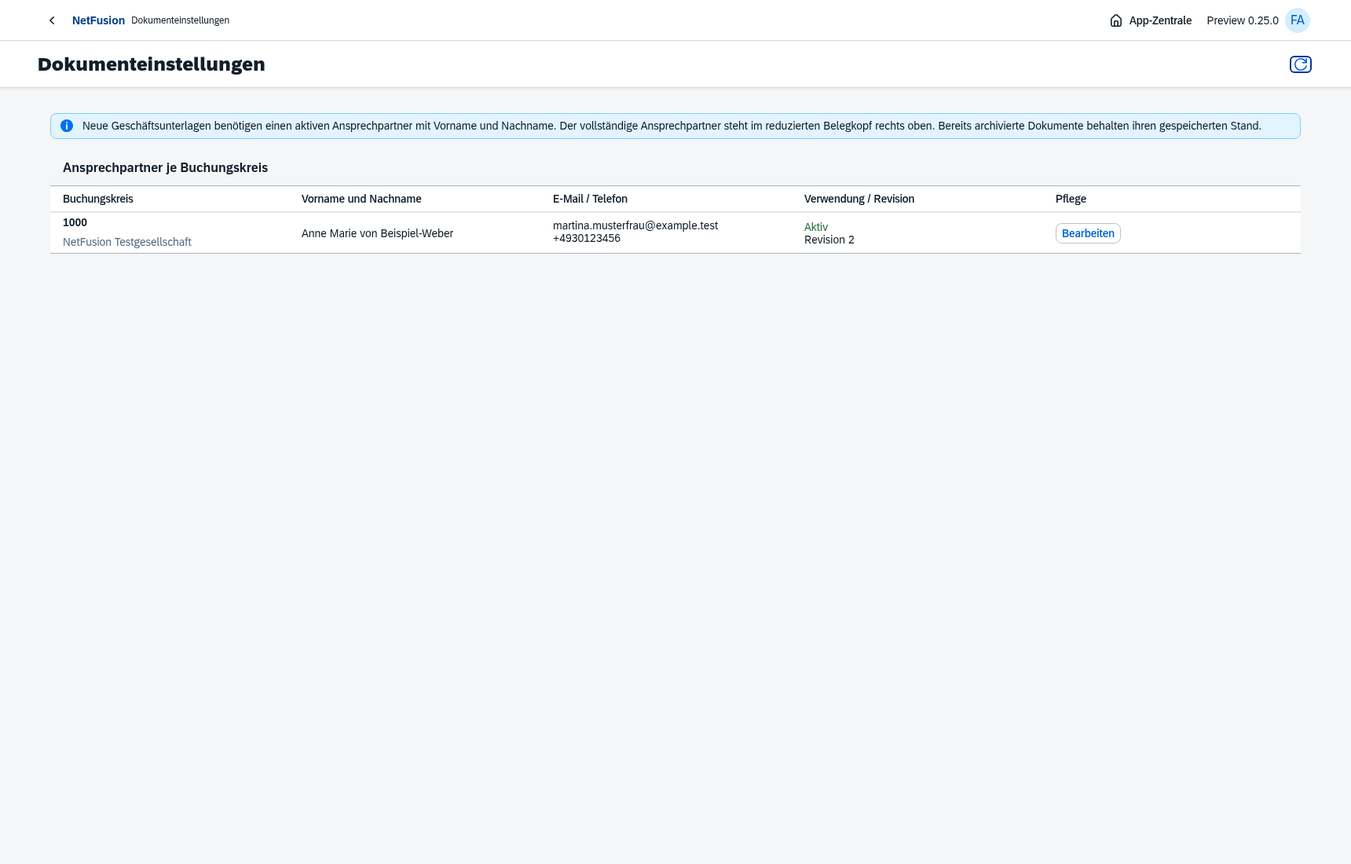
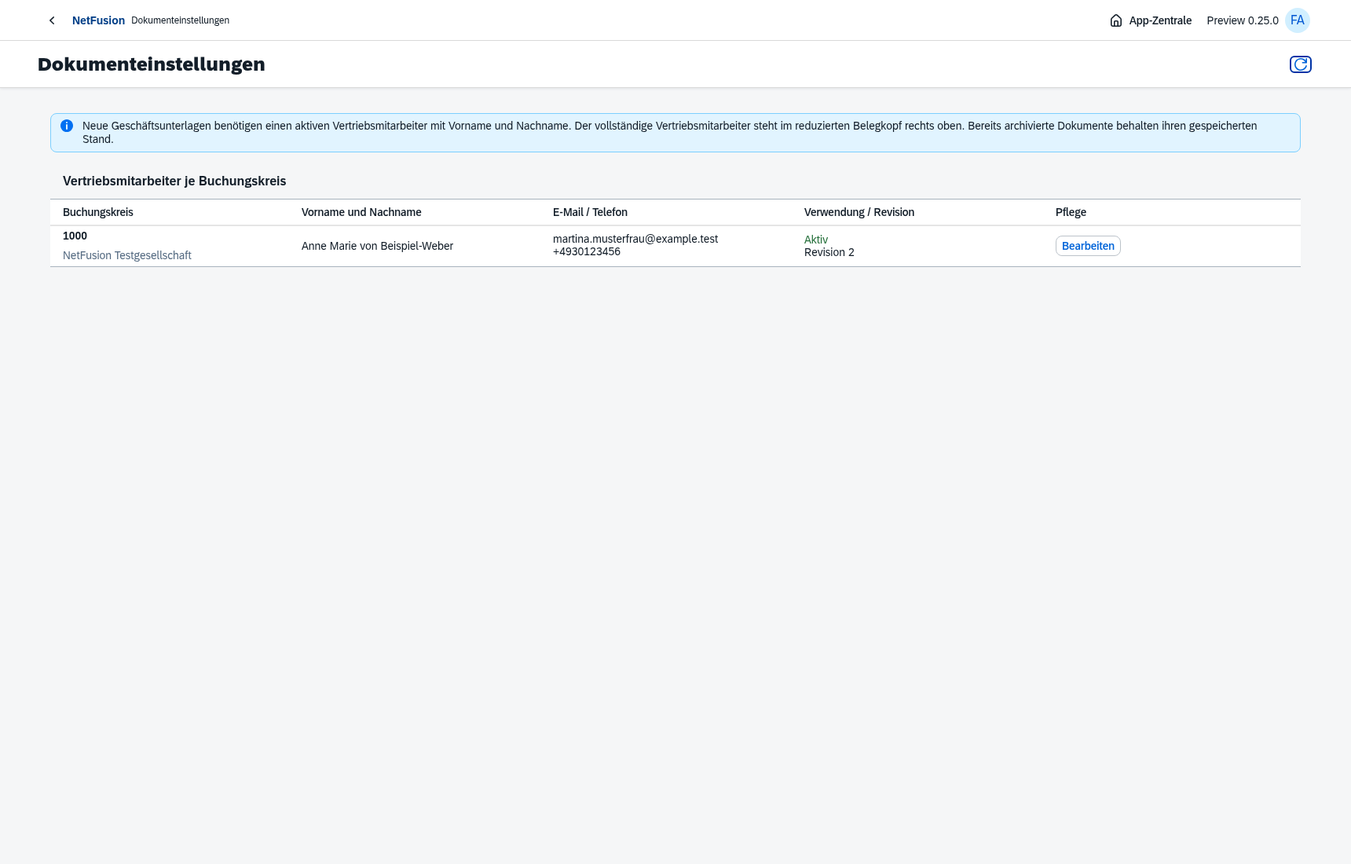
fix: print sales representative in the right document header

diff --git a/backend/billing.ts b/backend/billing.ts
@@ -58,7 +58,7 @@ export class Billing {
  const sourceLines:any[]=[],items:InvoiceData['items']=[];for(const [index,take] of i.lines.entries()){const l=(await db.query('SELECT l.*,l.quantity::text, l.unit_net::text,l.service_from::text AS service_day_from,l.service_to::text AS service_day_to,r.order_id,r.sales_order_id,r.status FROM billing_request_lines l JOIN billing_requests r ON r.tenant_id=l.tenant_id AND r.id=l.request_id WHERE l.tenant_id=$1 AND l.id=$2 FOR SHARE OF r',[u.tenantId,take.requestLineId])).rows[0];if(!l||(l.sales_order_id||l.order_id)!==o.id||l.status!=='RELEASED'||l.service_day_to>i.invoiceDate)throw new ConflictException('Freigegebene Anforderungsposition mit abgeschlossener Leistung vor Rechnungsdatum erforderlich.');const used=(await db.query('SELECT coalesce(sum(quantity),0)::text AS quantity FROM invoice_items WHERE tenant_id=$1 AND request_line_id=$2',[u.tenantId,l.id])).rows[0].quantity;if(new D(used).plus(take.quantity).gt(l.quantity)||(l.source_kind==='FIXED_PRICE'&&!new D(take.quantity).eq(1)))throw new ConflictException('Fakturamenge überschreitet freigegebene Restmenge oder teilt einen Festpreis ohne Fakturierungsplan.');const net=new D(l.unit_net).times(take.quantity).toFixed(2),usedNet=(await db.query('SELECT coalesce(sum(net),0)::text AS net FROM invoice_items WHERE tenant_id=$1 AND request_line_id=$2',[u.tenantId,l.id])).rows[0].net;if(new D(usedNet).plus(net).gt(l.net))throw new ConflictException('Gerundete Teilbeträge überschreiten den freigegebenen Anforderungswert. Größere Teilmengen verwenden; Rundungskorrektur ist noch nicht freigegeben.');if(!new D(net).gt(0))throw new ConflictException('Fakturaposition muss einen positiven gerundeten Wert haben.');const ticketNumbers=o.execution_mode==='DIRECT_SALES'?[]:(await db.query("SELECT DISTINCT td.number FROM service_report_lines sl JOIN service_reports sr ON sr.tenant_id=sl.tenant_id AND sr.id=sl.report_id JOIN documents td ON td.tenant_id=sr.tenant_id AND td.id=sr.ticket_id WHERE sl.tenant_id=$1 AND sr.order_id=$2 AND sr.status='APPROVED' AND (sl.snapshot->>'billable')::boolean AND (($3::uuid IS NOT NULL AND sl.id=$3) OR ($3::uuid IS NULL AND sl.item_id=$4)) ORDER BY td.number",[u.tenantId,o.id,l.source_line_id,l.item_id])).rows.map(row=>row.number);items.push({ticketNumbers,position:(index+1)*10,sku:l.snapshot.sku,description:l.snapshot.description,quantity:take.quantity,unit:l.unit,unitNet:l.unit_net,net,taxRate:new D(l.tax_rate).toFixed(),serviceFrom:l.service_day_from,serviceTo:l.service_day_to,...(l.source_kind==='DELIVERY'?{deliveryNumber:l.snapshot.deliveryNumber}:{})});sourceLines.push(l);}
  const groups=new Map<string,Decimal>();for(const l of items)groups.set(l.taxRate,(groups.get(l.taxRate)||new D(0)).plus(l.net));const taxes=[...groups].sort((a,b)=>new D(a[0]).cmp(b[0])).map(([rate,basis])=>({rate,basis:basis.toFixed(2),amount:basis.times(rate).div(100).toFixed(2)})),net=items.reduce((v,l)=>v.plus(l.net),new D(0)).toFixed(2),tax=taxes.reduce((v,t)=>v.plus(t.amount),new D(0)).toFixed(2),gross=new D(net).plus(tax).toFixed(2);if(new D(gross).gte('10000000000000000'))throw new ConflictException('Rechnungsbetrag überschreitet den unterstützten Wertebereich.');
  if(new D(account.credit_limit).gt(0)){const exposure=(await db.query('SELECT coalesce(sum(amount),0)::text AS value FROM invoice_open_items WHERE tenant_id=$1 AND company_id=$2 AND partner_id=$3',[u.tenantId,c.id,p.id])).rows[0].value;if(new D(exposure).plus(gross).gt(account.credit_limit))throw new ConflictException('Kreditlimit des Debitors wird überschritten.');}
- const d=await createDocument(db,u,'INVOICE','RE',c.organization_id),due=new Date(i.invoiceDate+'T00:00:00Z');due.setUTCDate(due.getUTCDate()+account.payment_terms_days);const snapshot:InvoiceData={...(o.execution_mode==='DIRECT_SALES'?{orderKind:'SALES_ORDER' as const,deliveryNumbers:[...new Set(sourceLines.map(l=>l.snapshot.deliveryNumber))].sort()}:{}),number:d.number,date:i.invoiceDate,dueDate:due.toISOString().slice(0,10),currency:c.currency,buyerReference:i.buyerReference,...(salesSource?{salesOrderNumber:salesSource.salesOrderNumber,customerOrderReference:salesSource.customerOrderReference}:{}),ticketNumbers:[...new Set(items.flatMap(l=>l.ticketNumbers||[]))].sort(),orderNumber:(await document(db,u,o.id)).number,seller:{contact:await documentContact(db,u,c.id),name:c.name,street:c.street,postalCode:c.postal_code,city:c.city,country:c.country,vatId:c.vat_id,iban:profile.iban,bic:profile.bic,email:profile.email,phone:profile.phone},buyer:{name:p.name,street:address.street,postalCode:address.postalCode,city:address.city,country:address.country,vatId:p.vat_id,number:p.number},items,taxes,net,tax,gross};
+ const d=await createDocument(db,u,'INVOICE','RE',c.organization_id),due=new Date(i.invoiceDate+'T00:00:00Z');due.setUTCDate(due.getUTCDate()+account.payment_terms_days);const snapshot:InvoiceData={documentContactLabel:'Vertriebsmitarbeiter',...(o.execution_mode==='DIRECT_SALES'?{orderKind:'SALES_ORDER' as const,deliveryNumbers:[...new Set(sourceLines.map(l=>l.snapshot.deliveryNumber))].sort()}:{}),number:d.number,date:i.invoiceDate,dueDate:due.toISOString().slice(0,10),currency:c.currency,buyerReference:i.buyerReference,...(salesSource?{salesOrderNumber:salesSource.salesOrderNumber,customerOrderReference:salesSource.customerOrderReference}:{}),ticketNumbers:[...new Set(items.flatMap(l=>l.ticketNumbers||[]))].sort(),orderNumber:(await document(db,u,o.id)).number,seller:{contact:await documentContact(db,u,c.id),name:c.name,street:c.street,postalCode:c.postal_code,city:c.city,country:c.country,vatId:c.vat_id,iban:profile.iban,bic:profile.bic,email:profile.email,phone:profile.phone},buyer:{name:p.name,street:address.street,postalCode:address.postalCode,city:address.city,country:address.country,vatId:p.vat_id,number:p.number},items,taxes,net,tax,gross};
  await db.query('INSERT INTO invoices(id,tenant_id,company_id,partner_id,order_id,period_id,invoice_date,posting_date,due_date,currency,net,tax,gross,snapshot,sales_order_id) VALUES($1,$2,$3,$4,$5,$6,$7,$8,$9,$10,$11,$12,$13,$14,$15)',[d.id,u.tenantId,c.id,p.id,o.execution_mode==='DIRECT_SALES'?null:o.id,i.periodId,i.invoiceDate,i.postingDate,snapshot.dueDate,c.currency,net,tax,gross,JSON.stringify(snapshot),o.execution_mode==='DIRECT_SALES'?o.id:null]);
  for(const [index,l] of items.entries())await db.query('INSERT INTO invoice_items(id,tenant_id,invoice_id,request_line_id,position,quantity,net,tax_rate) VALUES($1,$2,$3,$4,$5,$6,$7,$8)',[randomUUID(),u.tenantId,d.id,sourceLines[index].id,l.position,l.quantity,l.net,l.taxRate]);
  const journalLines:any[]=[{accountId:account.reconciliation_account_id,side:'DEBIT',amount:gross,description:'Forderung '+d.number,costCenter:null,partnerId:p.id,taxCode:null},...items.map((l,index)=>({accountId:rule('revenue').account_id,side:'CREDIT',amount:l.net,description:l.description.slice(0,160),costCenter:sourceLines[index].snapshot.costCenter,partnerId:p.id,taxCode:null})),...taxes.filter(t=>new D(t.amount).gt(0)).map(t=>({accountId:rule('tax').account_id,side:'CREDIT',amount:t.amount,description:'Umsatzsteuer '+t.rate+' %',costCenter:null,partnerId:p.id,taxCode:'VAT_'+t.rate}))];const journal=await automaticJournal(db,u,{companyId:c.id,periodId:i.periodId,postingDate:i.postingDate,documentDate:i.invoiceDate,description:'Ausgangsrechnung '+d.number,reference:d.number,lines:journalLines},d.id,corr);

diff --git a/backend/einvoice.ts b/backend/einvoice.ts
@@ -14,7 +14,7 @@ export class IncomingOriginalValidationError extends Error{constructor(message:s
 export const E_INVOICE_TOOL_VERSION='2.26.0';
[1 lines of base64/hex data omitted]
 export interface InvoiceData {
- orderKind?:'SALES_ORDER';deliveryNumbers?:string[];salesOrderNumber?:string;customerOrderReference?:string;ticketNumbers?:string[];number:string;date:string;dueDate:string;currency:string;buyerReference:string;orderNumber:string;
+ documentContactLabel?:'Vertriebsmitarbeiter';orderKind?:'SALES_ORDER';deliveryNumbers?:string[];salesOrderNumber?:string;customerOrderReference?:string;ticketNumbers?:string[];number:string;date:string;dueDate:string;currency:string;buyerReference:string;orderNumber:string;
  seller:{contact?:DocumentContact;name:string;street:string;postalCode:string;city:string;country:string;vatId:string;iban:string;bic:string;email:string;phone:string};
  buyer:{name:string;street:string;postalCode:string;city:string;country:string;vatId:string;number:string};
  items:{deliveryNumber?:string;ticketNumbers?:string[];position:number;sku:string;description:string;quantity:string;unit:string;unitNet:string;net:string;taxRate:string;serviceFrom:string;serviceTo:string}[];
@@ -42,7 +42,7 @@ ${i.items.map(l=>`<ram:IncludedSupplyChainTradeLineItem><ram:AssociatedDocumentL
 export function invoicePdfData(i:InvoiceData):BusinessPdf{
  const germanDate=(v:string)=>v.slice(8,10)+'.'+v.slice(5,7)+'.'+v.slice(0,4);const performance=(a:string,b:string)=>germanDate(a)+(a===b?'':' – '+germanDate(b));
  const money=(v:string)=>{const [a,b='']=new Decimal(v).toFixed().split('.');return a+','+b.padEnd(2,'0')+' '+i.currency;};
- return {contact:i.seller.contact,title:'Rechnung',number:i.number,sourceNumber:i.orderNumber,status:'Gebucht',date:i.date,issuer:i.seller,recipient:i.buyer,fields:[['Kundennummer',i.buyer.number],[i.orderKind==='SALES_ORDER'?'Kundenauftrag':'Serviceauftrag',i.orderNumber],...(i.salesOrderNumber&&i.salesOrderNumber!==i.orderNumber?[['Kundenauftrag',i.salesOrderNumber] as [string,string]]:[]),...(i.customerOrderReference?[['Ihre Bestellung',i.customerOrderReference] as [string,string]]:[]),['Zahlbar bis',i.dueDate],...(i.ticketNumbers?.length?[[i.ticketNumbers.length===1?'Ticket':'Tickets',i.ticketNumbers.join(', ')] as [string,string]]:[]),...(i.buyerReference&&i.buyerReference!==i.customerOrderReference?[['Ihre Referenz',i.buyerReference] as [string,string]]:[])],columns:[{title:'Pos.',width:40},{title:'Material / Leistung',width:200},{title:'Menge',width:60},{title:'Preis netto',width:85},{title:'Gesamt\nnetto',width:85},{title:'MwSt.',width:50}],rows:i.items.map(l=>[String(l.position),[l.sku,l.description,...(l.deliveryNumber?['Lieferschein: '+l.deliveryNumber]:[]),(i.orderKind==='SALES_ORDER'?'Lieferdatum: ':'Leistung: ')+performance(l.serviceFrom,l.serviceTo)].filter(Boolean).join('\n'),l.quantity.replace('.',',')+' '+l.unit,money(l.unitNet),money(l.net),l.taxRate+' %']),totals:[['Gesamt netto',money(i.net)],...i.taxes.map(t=>['USt. '+t.rate+' % auf '+money(t.basis),money(t.amount)] as [string,string]),['Rechnungsbetrag',money(i.gross)]],paragraphs:[['Zahlungsinformationen','Bitte überweisen Sie '+money(i.gross)+' bis '+germanDate(i.dueDate)+' unter Angabe der Rechnungsnummer '+i.number+'.\nIBAN: '+i.seller.iban+(i.seller.bic?' · BIC: '+i.seller.bic:'')]],notice:i.orderKind==='SALES_ORDER'?'Für die gelieferten Waren berechnen wir Ihnen:':'Für die erbrachten Leistungen berechnen wir Ihnen:'};
+ return {...(i.documentContactLabel?{contactLabel:i.documentContactLabel}:{}),contact:i.seller.contact,title:'Rechnung',number:i.number,sourceNumber:i.orderNumber,status:'Gebucht',date:i.date,issuer:i.seller,recipient:i.buyer,fields:[['Kundennummer',i.buyer.number],[i.orderKind==='SALES_ORDER'?'Kundenauftrag':'Serviceauftrag',i.orderNumber],...(i.salesOrderNumber&&i.salesOrderNumber!==i.orderNumber?[['Kundenauftrag',i.salesOrderNumber] as [string,string]]:[]),...(i.customerOrderReference?[['Ihre Bestellung',i.customerOrderReference] as [string,string]]:[]),['Zahlbar bis',i.dueDate],...(i.ticketNumbers?.length?[[i.ticketNumbers.length===1?'Ticket':'Tickets',i.ticketNumbers.join(', ')] as [string,string]]:[]),...(i.buyerReference&&i.buyerReference!==i.customerOrderReference?[['Ihre Referenz',i.buyerReference] as [string,string]]:[])],columns:[{title:'Pos.',width:40},{title:'Material / Leistung',width:200},{title:'Menge',width:60},{title:'Preis netto',width:85},{title:'Gesamt\nnetto',width:85},{title:'MwSt.',width:50}],rows:i.items.map(l=>[String(l.position),[l.sku,l.description,...(l.deliveryNumber?['Lieferschein: '+l.deliveryNumber]:[]),(i.orderKind==='SALES_ORDER'?'Lieferdatum: ':'Leistung: ')+performance(l.serviceFrom,l.serviceTo)].filter(Boolean).join('\n'),l.quantity.replace('.',',')+' '+l.unit,money(l.unitNet),money(l.net),l.taxRate+' %']),totals:[['Gesamt netto',money(i.net)],...i.taxes.map(t=>['USt. '+t.rate+' % auf '+money(t.basis),money(t.amount)] as [string,string]),['Rechnungsbetrag',money(i.gross)]],paragraphs:[['Zahlungsinformationen','Bitte überweisen Sie '+money(i.gross)+' bis '+germanDate(i.dueDate)+' unter Angabe der Rechnungsnummer '+i.number+'.\nIBAN: '+i.seller.iban+(i.seller.bic?' · BIC: '+i.seller.bic:'')]],notice:i.orderKind==='SALES_ORDER'?'Für die gelieferten Waren berechnen wir Ihnen:':'Für die erbrachten Leistungen berechnen wir Ihnen:'};
 }
 export async function createValidatedEInvoice(i:InvoiceData,archiveNumber:string,templateVersion:5|6=6){
  if(validationRunning)throw new EInvoiceBusyError('E-Rechnungsvalidierung ist ausgelastet; Ausgabe erneut anfordern.');

diff --git a/backend/service-quote-pdf.ts b/backend/service-quote-pdf.ts
@@ -7,5 +7,5 @@ export function serviceQuotePdf(snapshot:any,number:string,state:string,commerci
  const party=(role:string)=>snapshot.partners.find((p:any)=>p.role===role),term=(kind:string)=>snapshot.terms.find((t:any)=>t.kind===kind),sold=party('SOLD_TO'),ship=party('SHIP_TO'),payment=term('PAYMENT'),shipping=term('SHIPPING'),incoterms=term('INCOTERMS'),h=snapshot.header,currency=h.currency,digits=h.digits;
  const fields:[string,string][]=[[h.purpose==='SERVICE_ESTIMATE'?'Berechnungsart':'Angebotsart',h.kind==='FIXED_PRICE'?'Festpreis':'Standard'],['Kundennummer',sold?.number||'Noch nicht zugeordnet'],['Gültig bis',h.validUntil],['Vertriebsbereich',[snapshot.area.salesOrgCode,snapshot.area.channelCode,snapshot.area.divisionCode].join(' / ')],['Geplante Leistung',h.requestedOn||'Noch offen'],['Zahlungsbedingung',payment?[payment.code,payment.name].join(' · '):'Noch offen']];
  if(h.customerReference)fields.push(['Kundenreferenz',h.customerReference]);if(shipping)fields.push(['Versand',shipping.code+' · '+shipping.name]);if(incoterms)fields.push(['Incoterms',[incoterms.code,incoterms.edition,h.incotermPlace].filter(Boolean).join(' · ')]);if(ship)fields.push(['Waren-/Leistungsempfänger',[ship.name,ship.address.street,ship.address.postalCode+' '+ship.address.city,ship.address.country].join('\n')]);
- return {title:h.purpose==='SERVICE_ESTIMATE'?(record?'Kostenvoranschlagsblatt':'Kostenvoranschlag'):(record?'Angebotsblatt':'Angebot'),number,sourceNumber:number,status:{DRAFT:'Entwurf',REJECTED:'Zur Überarbeitung',IN_REVIEW:'In interner Prüfung',APPROVED:'Intern freigegeben',PUBLISHED:'Bereitgestellt',ACCEPTED:'Angenommen',DECLINED:'Abgelehnt',CANCELLED:'Abgebrochen'}[state]||state,date:h.quoteDate,issuer:snapshot.company,contact:snapshot.company.contact,...(sold?{recipient:{name:sold.name,...sold.address}}:{}),fields,columns:[{title:'Pos.',width:35},{title:'Artikel / Bezeichnung',width:240},{title:'Menge',width:55},{title:'Einzelpreis',width:80},{title:'Nettowert',width:80},{title:'MwSt.',width:50}],rows:snapshot.items.filter((l:any)=>record||!l.rejectionReason).map((l:any)=>{const unitNet=new D(l.net).div(l.quantity),unitDigits=Math.min(6,Math.max(digits,unitNet.decimalPlaces()));return [String(l.position).padStart(4,'0'),[l.product.sku,l.description,l.customerMaterial?'Kundenmaterial: '+l.customerMaterial:'',l.itemText,l.rejectionReason?'Abgesagt: '+l.rejectionReason:''].filter(Boolean).join('\n'),quantity(l.quantity)+' '+l.unit,l.rejectionReason?'—':money(unitNet.toString(),currency,unitDigits),l.rejectionReason?'—':money(l.net,currency,digits),l.rejectionReason||l.billingRule==='NON_BILLABLE'?'—':quantity(l.price.taxRate)+' %'];}),totals:[['Gesamt netto',money(snapshot.totals.net,currency,digits)],['Steuer',money(snapshot.totals.tax,currency,digits)],['Gesamt brutto',money(snapshot.totals.gross,currency,digits)]],notice:h.headerText||(h.purpose==='SERVICE_ESTIMATE'?'Kostenvoranschlag zu den angegebenen Mengen und Bedingungen. Abrechnung gemäß vereinbartem Abrechnungsmodell und freigegebenem Leistungsnachweis.':'Wir bieten Ihnen die aufgeführten Positionen zu den angegebenen Bedingungen an.'),...(commercialHash?{commercialHash}:{})};
+ return {contactLabel:'Vertriebsmitarbeiter',title:h.purpose==='SERVICE_ESTIMATE'?(record?'Kostenvoranschlagsblatt':'Kostenvoranschlag'):(record?'Angebotsblatt':'Angebot'),number,sourceNumber:number,status:{DRAFT:'Entwurf',REJECTED:'Zur Überarbeitung',IN_REVIEW:'In interner Prüfung',APPROVED:'Intern freigegeben',PUBLISHED:'Bereitgestellt',ACCEPTED:'Angenommen',DECLINED:'Abgelehnt',CANCELLED:'Abgebrochen'}[state]||state,date:h.quoteDate,issuer:snapshot.company,contact:snapshot.company.contact,...(sold?{recipient:{name:sold.name,...sold.address}}:{}),fields,columns:[{title:'Pos.',width:35},{title:'Artikel / Bezeichnung',width:240},{title:'Menge',width:55},{title:'Einzelpreis',width:80},{title:'Nettowert',width:80},{title:'MwSt.',width:50}],rows:snapshot.items.filter((l:any)=>record||!l.rejectionReason).map((l:any)=>{const unitNet=new D(l.net).div(l.quantity),unitDigits=Math.min(6,Math.max(digits,unitNet.decimalPlaces()));return [String(l.position).padStart(4,'0'),[l.product.sku,l.description,l.customerMaterial?'Kundenmaterial: '+l.customerMaterial:'',l.itemText,l.rejectionReason?'Abgesagt: '+l.rejectionReason:''].filter(Boolean).join('\n'),quantity(l.quantity)+' '+l.unit,l.rejectionReason?'—':money(unitNet.toString(),currency,unitDigits),l.rejectionReason?'—':money(l.net,currency,digits),l.rejectionReason||l.billingRule==='NON_BILLABLE'?'—':quantity(l.price.taxRate)+' %'];}),totals:[['Gesamt netto',money(snapshot.totals.net,currency,digits)],['Steuer',money(snapshot.totals.tax,currency,digits)],['Gesamt brutto',money(snapshot.totals.gross,currency,digits)]],notice:h.headerText||(h.purpose==='SERVICE_ESTIMATE'?'Kostenvoranschlag zu den angegebenen Mengen und Bedingungen. Abrechnung gemäß vereinbartem Abrechnungsmodell und freigegebenem Leistungsnachweis.':'Wir bieten Ihnen die aufgeführten Positionen zu den angegebenen Bedingungen an.'),...(commercialHash?{commercialHash}:{})};
 }

diff --git a/backend/business-pdf.ts b/backend/business-pdf.ts
@@ -5,7 +5,7 @@ import {renderBusinessPdf as renderV5} from './business-pdf-v5';
 export interface DocumentContact {firstName:string;lastName:string;email:string;phone:string;version?:number;}
 export interface BusinessPdf {
  title:string;number:string;sourceNumber:string;status:string;date:string;
- contact?:DocumentContact;
+ contact?:DocumentContact;contactLabel?:'Vertriebsmitarbeiter';
  issuer:{name:string;street?:string;postalCode?:string;city?:string;country?:string;vatId?:string};
  recipient?:{name:string;street?:string;postalCode?:string;city?:string;country?:string};
  fields:[string,string][];columns:{title:string;width:number;align?:'left'|'right'}[];rows:string[][];
@@ -42,7 +42,7 @@ export async function renderBusinessPdf(data:BusinessPdf,archiveNumber:string,op
  }
  function drawLines(values:string[],x:number,top:number,w:number,size=9,strong=false,align:'left'|'right'='left',pitch=12){values.forEach((v,i)=>line(v,x,top+i*pitch,w,size,strong,align));}
  function stroke(x:number,top:number,w:number,color=rule,weight=.5){doc.moveTo(x,top).lineTo(x+w,top).lineWidth(weight).strokeColor(color).stroke();}
- function continuation(){doc.addPage();line(data.issuer.name,left,mm(15),width*.62,9,true);line(data.title,left,mm(23),width*.6,11,true);line(data.number,left+width*.6,mm(23),width*.27,9,true,'right');pageFields.push({page:doc.bufferedPageRange().count-1,y:mm(23)});line('Ihr Ansprechpartner: '+data.contact!.firstName+' '+data.contact!.lastName,left,mm(31),width,8);stroke(left,mm(37),width);y=mm(44);}
+ function continuation(){doc.addPage();line(data.issuer.name,left,mm(15),width*.62,9,true);line(data.title,left,mm(23),width*.6,11,true);line(data.number,left+width*.6,mm(23),width*.27,9,true,'right');pageFields.push({page:doc.bufferedPageRange().count-1,y:mm(23)});line((data.contactLabel||'Ihr Ansprechpartner')+': '+data.contact!.firstName+' '+data.contact!.lastName,left,mm(31),width,8);stroke(left,mm(37),width);y=mm(44);}
  function page(height:number){if(y+height>bottom)continuation();}
  const address=(a:NonNullable<BusinessPdf['recipient']>)=>[a.name,a.street,[a.postalCode,a.city].filter(Boolean).join(' '),a.country].filter(Boolean) as string[];
  const issuerAddress=[data.issuer.street,[data.issuer.postalCode,data.issuer.city].filter(Boolean).join(' '),data.issuer.country].filter(Boolean).join(' · ');
@@ -66,7 +66,7 @@ export async function renderBusinessPdf(data:BusinessPdf,archiveNumber:string,op
  const important=new Set(['Kundennummer','Lieferanten-Nr.','Kundenreferenz','Ihre Bestellung','Kundenauftrag','Serviceauftrag','Bestellung','Bestellnummer','Zahlbar bis']);
  const header=remaining.filter(([k,v])=>important.has(k)&&v.length<70&&!v.includes('\n')).slice(0,3);
  if(data.sourceNumber!==data.number&&!header.some(([,v])=>v===data.sourceNumber))header.push(['Ursprungsbeleg',data.sourceNumber]);
- let infoY=primaryY+31;line('Ansprechpartner',infoX,infoY,infoW,7);const contactName=data.contact!.firstName+' '+data.contact!.lastName;let contactSize=9;font(contactSize);while(doc.widthOfString(contactName)>infoW&&contactSize>7){contactSize-=.25;font(contactSize);}const contactLines=lines(contactName,infoW,contactSize);if(contactLines.length>3)throw new BusinessPdfLayoutError('Vollständiger Ansprechpartner überschreitet den Belegkopf.');drawLines(contactLines,infoX,infoY+10,infoW,contactSize);infoY+=contactLines.length*12+17;
+ let infoY=primaryY+31;line(data.contactLabel||'Ansprechpartner',infoX,infoY,infoW,7);const contactName=data.contact!.firstName+' '+data.contact!.lastName;let contactSize=9;font(contactSize);while(doc.widthOfString(contactName)>infoW&&contactSize>7){contactSize-=.25;font(contactSize);}const contactLines=lines(contactName,infoW,contactSize);if(contactLines.length>3)throw new BusinessPdfLayoutError('Vollständiger Ansprechpartner überschreitet den Belegkopf.');drawLines(contactLines,infoX,infoY+10,infoW,contactSize);infoY+=contactLines.length*12+17;
  for(const [label,value] of header){line(label,infoX,infoY,infoW,7);const values=lines(dateValue(value),infoW,9);drawLines(values,infoX,infoY+10,infoW,9,false,'left',11);infoY+=values.length*11+15;}
  let leftEnd=mm(90);
  if(delivery){const values=lines(delivery[1],mm(80),10);leftEnd=mm(96)+12+values.length*12;line('Lieferanschrift',left,mm(96),mm(80),7,true);drawLines(values,left,mm(96)+12,mm(80),10,false,'left',12);}

diff --git a/backend/attachments.ts b/backend/attachments.ts
@@ -73,7 +73,7 @@ export class Attachments{
   const {d,row:r}=s,q=async(sql:string,values:unknown[]=[u.tenantId,d.id])=>(await db.query(sql,values)).rows;
   const org=(await q('SELECT name FROM organizations WHERE tenant_id=$1 AND id=$2',[u.tenantId,d.organization_id]))[0],company=(await q('SELECT c.id,c.name,c.street,c.postal_code AS "postalCode",c.city,c.country,c.vat_id AS "vatId",cur.digits FROM company_codes c JOIN currencies cur ON cur.tenant_id=c.tenant_id AND cur.code=c.currency WHERE c.tenant_id=$1 AND c.organization_id=$2 AND ($3::uuid IS NULL OR c.id=$3)',[u.tenantId,d.organization_id,r.company_id||null]))[0];
   if(!company)throw new ConflictException('Buchungskreis mit Geschäftsadresse für das Geschäfts-PDF konfigurieren.');
-  const data:BusinessPdf={title:labels[type],number:d.number,sourceNumber:d.number,status:states[r.status||r.operational_status||r.movement_type]||r.status||r.operational_status||r.movement_type||'Erfasst',date:new Date(d.created_at).toISOString().slice(0,10),issuer:company||{name:org.name},fields:[['Organisation',org.name],['Vorgangsversion',String(s.version)]],columns:[],rows:[]};
+  const data:BusinessPdf={contactLabel:'Vertriebsmitarbeiter',title:labels[type],number:d.number,sourceNumber:d.number,status:states[r.status||r.operational_status||r.movement_type]||r.status||r.operational_status||r.movement_type||'Erfasst',date:new Date(d.created_at).toISOString().slice(0,10),issuer:company||{name:org.name},fields:[['Organisation',org.name],['Vorgangsversion',String(s.version)]],columns:[],rows:[]};
   data.contact=await documentContact(db,u,company.id);
   let partnerId=r.partner_id,order:any=null;
   if(r.sales_order_id&&['MATERIAL_REQUIREMENT','REQUISITION','PURCHASE_ORDER','GOODS_RECEIPT','SUPPLIER_INVOICE'].includes(d.kind)){const au=(await q('SELECT number FROM documents WHERE tenant_id=$1 AND id=$2',[u.tenantId,r.sales_order_id]))[0];data.fields.push(['Kundenauftrag',au.number]);}

diff --git a/frontend/webapp/controller/DocumentSettings.controller.js b/frontend/webapp/controller/DocumentSettings.controller.js
@@ -2,8 +2,8 @@ sap.ui.define(['netfusion/erp/controller/Base.controller','netfusion/erp/util/Fo
  'use strict';return Base.extend('netfusion.erp.controller.DocumentSettings',{
   onInit:function(){this.model({companies:[]});this.getOwnerComponent().getRouter().getRoute('documentSettings').attachPatternMatched(this.load,this);},
   load:async function(){if(!await this.guard('documentConfigRead'))return;return this.run(async function(){this.vm().setProperty('/companies',await this.api('/api/document-settings'));});},
-  onEdit:function(e){var c=e.getSource().getBindingContext('view').getObject();form(this,'Dokumentansprechpartner · '+c.code,[
-   {key:'firstName',label:'Vorname',value:c.firstName,required:true,maxLength:60,section:'Ansprechpartner im Belegkopf'},
+  onEdit:function(e){var c=e.getSource().getBindingContext('view').getObject();form(this,'Vertriebsmitarbeiter · '+c.code,[
+   {key:'firstName',label:'Vorname',value:c.firstName,required:true,maxLength:60,section:'Vertriebsmitarbeiter im Belegkopf'},
    {key:'lastName',label:'Nachname',value:c.lastName,required:true,maxLength:80},
    {key:'email',label:'E-Mail',value:c.email,required:true,maxLength:160},
    {key:'phone',label:'Telefon',value:c.phone,maxLength:50},

diff --git a/docs/previews/v0.25.0-preview.1/README.md b/docs/previews/v0.25.0-preview.1/README.md
@@ -1,6 +1,6 @@
 # Preview0.25 · größere Arbeitsseiten und vollständige Ansprechpartner
 
-Die letzte Dokumentkorrektur ist umgesetzt: **keine zusätzliche Infobox und keine Anschriftentabelle.** Die Anschrift bleibt normal links. Rechts oben stehen Nummer, Datum, vollständiger Ansprechpartner und wichtige Kunden-/Lieferanten-/Bestellreferenzen. Weitere Daten stehen im Beleginhalt. Alle gezeigten Masken und Dokumente stammen aus tatsächlichen Prüfabläufen mit synthetischen Testdaten.
+Die letzte Dokumentkorrektur ist umgesetzt: **keine zusätzliche Infobox und keine Anschriftentabelle.** Die Anschrift bleibt normal links. Rechts oben stehen Nummer, Datum, der vollständige Name unter **Vertriebsmitarbeiter** und wichtige Kunden-/Lieferanten-/Bestellreferenzen. Weitere Daten stehen im Beleginhalt. Alle gezeigten Masken und Dokumente stammen aus tatsächlichen Prüfabläufen mit synthetischen Testdaten.
 
 ## Arbeitsseiten
 
@@ -35,3 +35,9 @@ Die freigegebene Direktvertriebsbestellung über3EA zu40,00EUR netto enthält ta
 Vor neuen Geschäftsunterlagen den tatsächlichen Ansprechpartner in der eigenen App **Dokumenteinstellungen** pflegen. Alte unstrukturierte Personennamen müssen mit den wirklichen Komponenten vervollständigt werden; keine automatische Namenszerlegung. Archivierte PDFs werden nicht verändert. Bereits vor029 angelegte Rechnungsausgabeaufträge behalten ihren Vorlagenstand5; neue verwenden6. Die Browserseiten speichern Entwürfe im Arbeitsspeicher; Neuladen beendet die Bearbeitung.
 
 [Fachumfang und Grenzen](../../requirements/workspaces-document-contacts.md), [Restbacklog](../../master-backlog-index.md), [Installation auf8070](../../docker-8070.md). Vollständige CRM-/SAP-/DIN-/Rechts-/Security-/Produktionsabnahme bleibt offen. Das Git-Preview erhält einen annotierten Tag; eine separate GitHub-Releaseseite ist in dieser Umgebung wegen gesperrtem GitHub-API-Zugriff weiterhin nicht erstellt.
+
+## Nachtrag: Vertriebsmitarbeiter rechts oben
+
+Nach der letzten Nutzerpräzisierung tragen neue Ausgaben die Bezeichnung **Vertriebsmitarbeiter** beim gepflegten vollständigen Namen im rechten Kopf. Die Anschrift links bleibt normaler Text. Die Druckbezeichnung wird im neuen Formular- bzw. Rechnungssnapshot festgehalten; alte Archivbytes und wartende alte Rechnungsausgaben behalten ihre vorhandene Bezeichnung. Die Pflege in Dokumenteinstellungen nennt die Rolle ebenfalls ausdrücklich. [24/24 zusätzliche Prüfungen und native Arbeitsseitenprüfung](sales-contact-verification.json). PDF und Ansprechpartner-Screenshots oben zeigen diesen Nachtrag.
+
+Die Docker-/HTTPS-Nachweise beziehen sich auf das davor erzeugte Code-Preview-Image08da8ee…; für diesen nachfolgenden Druckbezeichnungs-Nachtrag wurde kein neues Image oder erneuter HTTPS-Installationsnachweis behauptet. Die aktuelle Quelle auf main wird mit dem dokumentierten Dockerbefehl neu gebaut. Der veröffentlichte Git-Tag bleibt unverändert.

diff --git a/docs/backlog.md b/docs/backlog.md
@@ -10,7 +10,7 @@ Der Masterprompt umfasst alle darin genannten Module; diese Ergänzungsliste ist
 
 ## Preview0.25 · aktuelle Masken- und Dokumentkorrektur
 
-Umfangreiche Bearbeitungen öffnen größere native Arbeitsseiten; Positionsdetails, Mehrzeilenbelege und Journalentwürfe sind darunter. Desktop-Positionsraster und mobile Pop-ins verwenden ausschließlich OpenUI5. Benutzer- und Kontaktpflege führen explizite Vor-/Nachnamen. Eigene Dokumenteinstellungen pflegen den tatsächlichen Ansprechpartner je Buchungskreis. **Letzte Nutzervorgabe:** keine zusätzliche Infobox und keine Anschriftentabelle; Ansprechpartner im reduzierten Kopf rechts oben, nur wesentliche Belegdaten. Alte Archivbytes und wartende historische Rechnungsausgaben bleiben erhalten. [Umfang, Altbestände und Grenzen](requirements/workspaces-document-contacts.md), [aktuelle Vorschau](previews/v0.25.0-preview.1/README.md). Geschäftsbereich, Profitcenter und die übrigen offenen Modulprozesse sind dadurch nicht erledigt.
+Umfangreiche Bearbeitungen öffnen größere native Arbeitsseiten; Positionsdetails, Mehrzeilenbelege und Journalentwürfe sind darunter. Desktop-Positionsraster und mobile Pop-ins verwenden ausschließlich OpenUI5. Benutzer- und Kontaktpflege führen explizite Vor-/Nachnamen. Eigene Dokumenteinstellungen pflegen den tatsächlichen Ansprechpartner je Buchungskreis. **Letzte Nutzervorgabe:** keine zusätzliche Infobox und keine Anschriftentabelle; der vollständige Name als Vertriebsmitarbeiter im reduzierten Kopf rechts oben, nur wesentliche Belegdaten. Alte Archivbytes und wartende historische Rechnungsausgaben bleiben erhalten. [Umfang, Altbestände und Grenzen](requirements/workspaces-document-contacts.md), [aktuelle Vorschau](previews/v0.25.0-preview.1/README.md). Geschäftsbereich, Profitcenter und die übrigen offenen Modulprozesse sind dadurch nicht erledigt.
 
 ## SERVICE-01 · Serviceangebote
 

diff --git a/docs/requirements/workspaces-document-contacts.md b/docs/requirements/workspaces-document-contacts.md
@@ -26,3 +26,7 @@ Historische unstrukturierte Namen werden nicht geraten oder anhand von Leerzeich
 Dies ersetzt keine vollständige CRM-, Entwurfs-, Barrierefreiheits-, DIN-, Rechts- oder Geräteabnahme. Geschäftsbereiche/Profitcenter, weitere Organisationszuordnungen und alle übrigen offenen Masterbacklog-Pakete bleiben offen. Die bestehende Ticketausnahme ohne Belegfluss bleibt bestehen.
 
 Technische Referenzen: OpenUI5 [Page](https://sdk.openui5.org/1.152.1/#/api/sap.m.Page), [SimpleForm](https://sdk.openui5.org/1.152.1/#/api/sap.ui.layout.form.SimpleForm), [Table](https://sdk.openui5.org/1.152.1/#/api/sap.ui.table.Table) und [Fixed RowMode](https://sdk.openui5.org/1.152.1/#/api/sap.ui.table.rowmodes.Fixed). Die verwendeten Controls werden mit dem tatsächlich installierten SDK im Browser geprüft.
+
+## Weitere Nutzerpräzisierung
+
+Der vollständige Name im rechten Kopf wird ausdrücklich als **Vertriebsmitarbeiter** bezeichnet. Die tatsächlich gepflegte Person des Buchungskreises bleibt die Quelle; es wird kein automatisch zugeordneter oder erfundener Benutzer behauptet. Die Bezeichnung gehört zum neuen Ausgabesnapshot, damit neue Ausgaben nicht eine ältere anders bezeichnete Archivversion wiederverwenden. Bereits vorhandene Originale und wartende alte Rechnungssnapshots bleiben unverändert. Die linke Anschrift bleibt ohne Tabelle.
